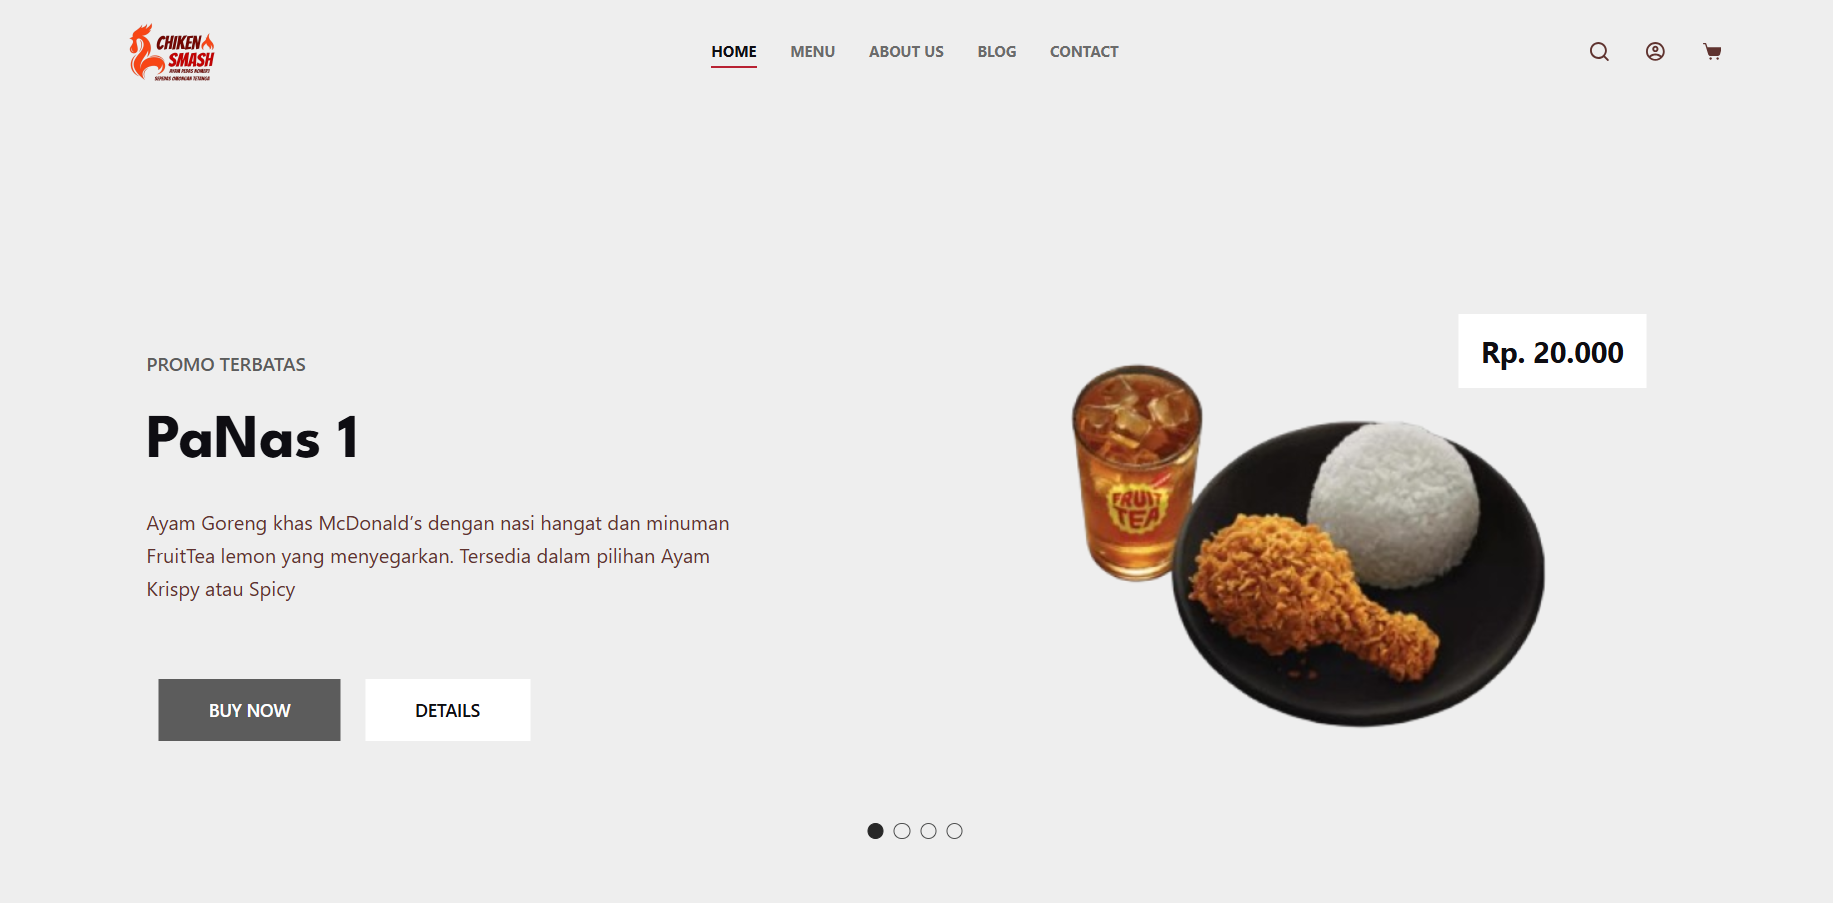
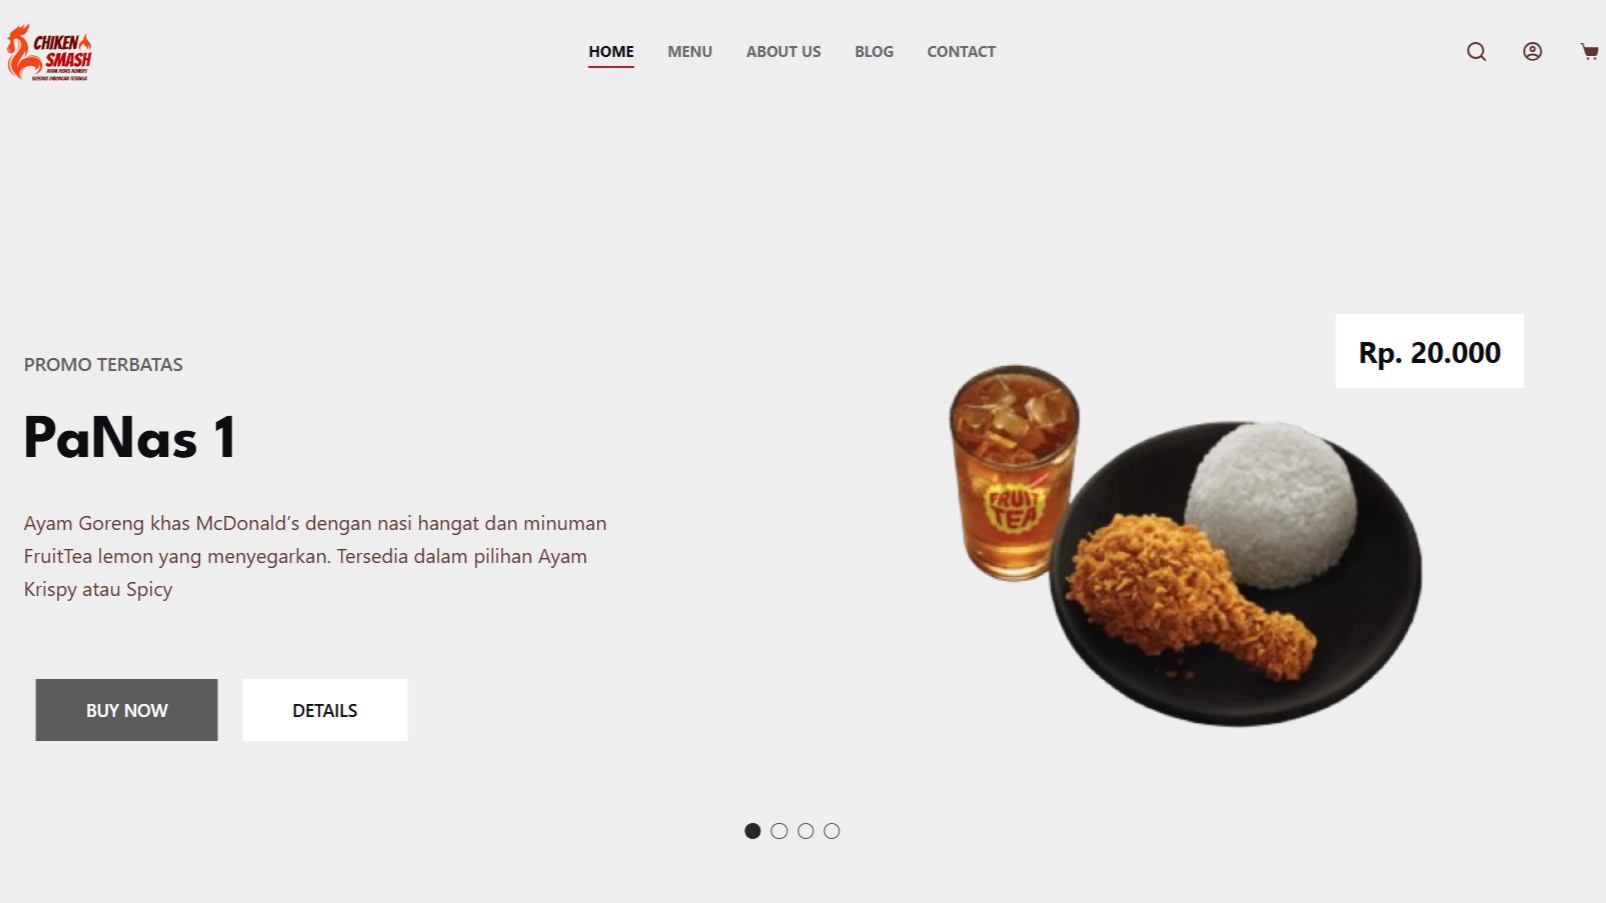
Update

diff --git a/portofolio.html b/portofolio.html
@@ -53,7 +53,7 @@
             <div class="row align-items-center">
                 <div class="col-lg-5 mb-4 mb-lg-0" data-aos="fade-right">
                     <div class="about-img-wrapper">
-                        <img src="sertifikat_Nextskill.jpeg" alt="Tentang Saya" class="img-fluid rounded-4 shadow-lg">
+                        <img src="sir akmal.png" alt="Tentang Saya" class="img-fluid rounded-4 shadow-lg">
                         <div class="about-img-accent"></div>
                     </div>
                 </div>
@@ -87,58 +87,125 @@
                 <h2 class="fw-bold">Proyek <span class="gradient-text">Terbaru</span></h2>
                 <p class="text-secondary">Beberapa proyek yang saya kerjakan dengan penuh dedikasi.</p>
             </div>
-            
-            <div class="row g-4">
+            <div class="row g-4 d-flex justify-content-center">
                 <div class="col-md-4" data-aos="fade-up" data-aos-delay="100">
                     <div class="card h-100">
-                        <img src="sertifikat_Nextskill.jpeg" class="card-img-top" alt="Project 1">
+                        <img src="projek smash chiken.png" class="card-img-top" alt="Project 1">
                         <div class="card-body">
-                            <h5 class="card-title">E-Commerce Modern</h5>
-                            <p class="card-text text-secondary">Sebuah platform e-commerce dengan desain minimalis dan fitur lengkap untuk pengalaman belanja online yang menyenangkan.</p>
-                            <a href="sertifikat_Nextskill.jpeg" class="btn btn-custom me-4">Go somewhere</a>
+                            <h5 class="card-title">Website Smash Chiken </h5>
+                            <p class="card-text text-secondary">Website ini menampilkan menu ayam goreng dengan berbagai paket menarik, promo terbaru, dan layanan pemesanan online yang cepat dan mudah. Dengan tampilan modern untuk pengalaman pengguna yang nyaman.</p>
                         </div>
                     </div>
                 </div>
                 
                 <div class="col-md-4" data-aos="fade-up" data-aos-delay="200">
                     <div class="card h-100">
-                        <img src="sertifikat_Nextskill.jpeg" class="card-img-top" alt="Project 2">
+                        <img src="projek e-commerce.png" class="card-img-top" alt="Project 2">
                         <div class="card-body">
-                            <h5 class="card-title">Blog Pribadi</h5>
-                            <p class="card-text text-secondary">Sebuah blog dengan desain yang bersih dan fokus pada konten, dilengkapi dengan fitur komentar dan integrasi media sosial.</p>
+                            <h5 class="card-title">Desain Tampilan Web E-Commerce</h5>
+                            <p class="card-text text-secondary">Website e-commerce dengan UI yang sederhana yang lebih mengutamakan penggalaman user.</p>
                         </div>
                     </div>
                 </div>
+                <div class="col-md-4" data-aos="fade-up" data-aos-delay="300">
+                    <div class="card h-100">
+                        <img src="projek landing page sekolah.png" class="card-img-top" alt="Project 3">
+                        <div class="card-body">
+                            <h5 class="card-title">Sistem Informasi Akademik</h5>
+                            <p class="card-text text-secondary">Sebuah sistem informasi akademik untuk sekolah dengan fitur manajemen siswa, guru, dan jadwal pelajaran yang efisien.</p>
+                        </div>
+                    </div>
+                </div>
+                <div class="col-md-4" data-aos="fade-up" data-aos-delay="400">
+                    <div class="card h-100">
+                        <img src="projek perpus sekolah.png" class="card-img-top" alt="Project 4">
+                        <div class="card-body">
+                            <h5 class="card-title">Sistem Informasi Akademik</h5>
+                            <p class="card-text text-secondary">Sebuah sistem informasi akademik untuk sekolah dengan fitur manajemen siswa, guru, dan jadwal pelajaran yang efisien.</p>
+                        </div>
+                    </div>
+                </div>
+            </div>
+        </div>
     </section>
+
+<section class="py-5" id="skills">
+    <div class="container py-5">
+        <div class="text-center mb-5" data-aos="fade-up">
+            <h2 class="fw-bold">Technical <span class="gradient-text">Skills</span></h2>
+            <p class="text-secondary">Tingkat kemahiran saya dalam berbagai teknologi pengembangan web.</p>
+        </div>
+
+        <div class="row g-4 d-flex justify-content-center">
+            
+            <div class="col-md-6" data-aos="fade-right">
+                <div class="skill-card-alt">
+                    <div class="d-flex justify-content-between mb-2">
+                        <span class="fw-bold"><i class="bi bi-code-slash me-2 text-info"></i>HTML / CSS</span>
+                        <span class="text-info fw-bold">95%</span>
+                    </div>
+                    <div class="progress-custom">
+                        <div class="progress-bar-fill" style="width: 95%;"></div>
+                    </div>
+                </div>
+            </div>
+
+            <div class="col-md-6" data-aos="fade-left">
+                <div class="skill-card-alt">
+                    <div class="d-flex justify-content-between mb-2">
+                        <span class="fw-bold"><i class="bi bi-box-seam me-2 text-info"></i>PHP & Laravel</span>
+                        <span class="text-info fw-bold">90%</span>
+                    </div>
+                    <div class="progress-custom">
+                        <div class="progress-bar-fill" style="width: 90%;"></div>
+                    </div>
+                </div>
+            </div>
+
+            <div class="col-md-6" data-aos="fade-left" data-aos-delay="100">
+                <div class="skill-card-alt">
+                    <div class="d-flex justify-content-between mb-2">
+                        <span class="fw-bold"><i class="bi bi-database me-2 text-info"></i>MySQL & Database</span>
+                        <span class="text-info fw-bold">80%</span>
+                    </div>
+                    <div class="progress-custom">
+                        <div class="progress-bar-fill" style="width: 80%;"></div>
+                    </div>
+                </div>
+            </div>
+
+        </div>
+    </div>
+</section>
 
     <section class="py-5" id="services">
         <div class="container py-5">
             <div class="text-center mb-5" data-aos="fade-up">
-                <h2 class="fw-bold">Layanan <span class="gradient-text">Saya</span></h2>
-                <p class="text-secondary">Apa yang bisa saya lakukan untuk membantu proyek Anda?</p>
+                <h2 class="fw-bold">Sertifikat & <span class="gradient-text">Prestasi</span></h2>
+                <p class="text-secondary"></p>
             </div>
-            <div class="row g-4">
+            <div class="row g-4 d-flex justify-content-center">
                 <div class="col-md-4" data-aos="fade-up" data-aos-delay="100">
-                    <div class="card p-4 h-100">
-                        <i class="bi bi-laptop icon-box"></i>
-                        <h4>Web Development</h4>
-                        <p class="text-secondary">Membuat website yang cepat, aman, dan responsif di semua perangkat.</p>
+                    <div class="card h-100">
+                        <img src="sertifikat agate.png" class="card-img-top" alt="Project 1">
+                        <div class="card-body">
+                            <h5 class="card-title">Agate Level-Up Series </h5>
+                            <p class="card-text text-secondary">Sebuah platform e-commerce dengan desain minimalis dan fitur lengkap untuk pengalaman belanja online yang menyenangkan.</p>
+                            <a href="sertifikat agate.png" class="btn btn-custom me-4">Lihat projeknya</a>
+                        </div>
                     </div>
                 </div>
-                <div class="col-md-4" data-aos="fade-up" data-aos-delay="200">
-                    <div class="card p-4 h-100">
-                        <i class="bi bi-palette icon-box"></i>
-                        <h4>UI/UX Design</h4>
-                        <p class="text-secondary">Desain antarmuka yang modern dan pengalaman pengguna yang intuitif.</p>
+                <div class="col-md-4" data-aos="fade-up" data-aos-delay="100">
+                    <div class="card h-100">
+                        <img src="sertifikat_Nextskill.jpeg" class="card-img-top" alt="Project 1">
+                        <div class="card-body">
+                            <h5 class="card-title">NextSkill Certification</h5>
+                            <p class="card-text text-secondary">Sebuah platform e-commerce dengan desain minimalis dan fitur lengkap untuk pengalaman belanja online yang menyenangkan.</p>
+                            <a href="sertifikat_Nextskill.jpeg" class="btn btn-custom me-4">Lihat lebih jelas</a>
+                        </div>
                     </div>
                 </div>
-                <div class="col-md-4" data-aos="fade-up" data-aos-delay="300">
-                    <div class="card p-4 h-100">
-                        <i class="bi bi-phone icon-box"></i>
-                        <h4>Mobile First</h4>
-                        <p class="text-secondary">Optimalisasi tampilan mobile agar nyaman diakses dari smartphone.</p>
-                    </div>
-                </div>
+                
             </div>
         </div>
     </section>

diff --git a/style.css b/style.css
@@ -145,3 +145,4 @@ footer {
         justify-content: center;
     }
 }
+